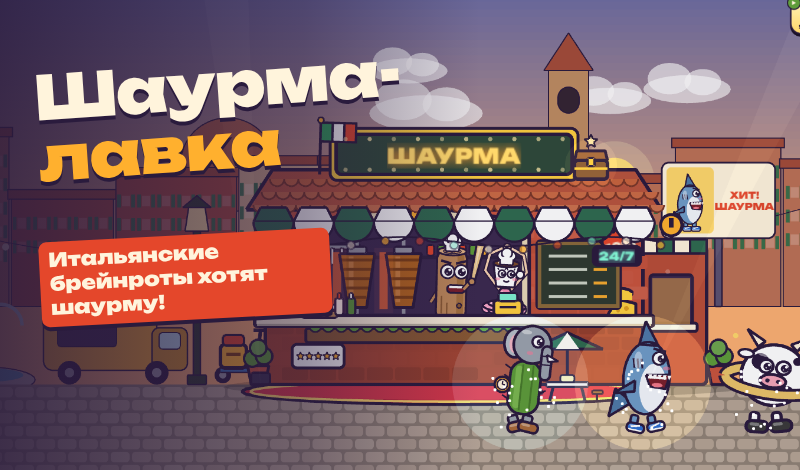
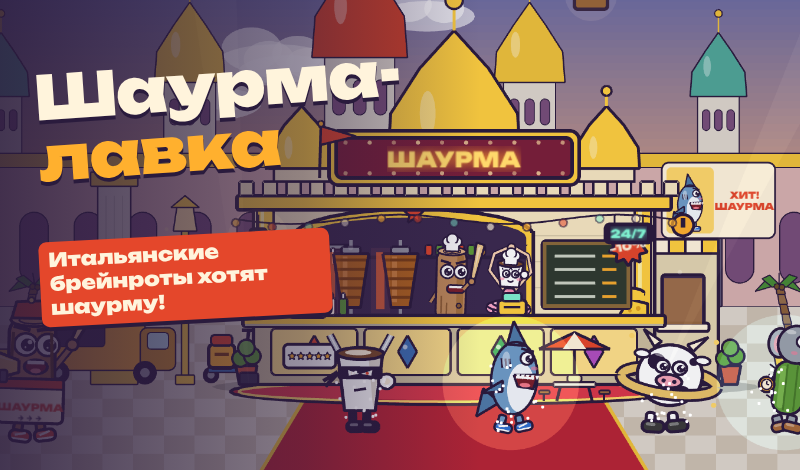
Docs and promo for the dumpster-to-palace story
Claude-Session: https://claude.ai/code/session_01Qaf8nFrGjceNFtBnCV7UjF

diff --git a/CLAUDE.md b/CLAUDE.md
@@ -11,7 +11,7 @@ Idle-кликер про ларёк с шаурмой. Браузерная иг
 ## Структура
 - `src/core/` — чистая логика игры. Без Phaser, без `window`, без `localStorage`. Покрыто тестами в `economy.test.ts`.
   - `economy.ts` — `GameState`, тап, покупка, тик, офлайн-доход, переезд, буст, миграция старых сохранений (`normalize`).
-  - `upgrades.ts` — таблица из 18 улучшений (тап, помощники, множители). `locations.ts` — 5 локаций с порогами и множителями.
+  - `upgrades.ts` — таблица из 18 улучшений (тап, помощники, множители). `locations.ts` — 7 точек сюжета «из коробки у помойки во дворец шаурмы» с порогами и множителями.
   - `achievements.ts` — 15 достижений, каждое навсегда даёт +3 % к доходу.
   - `pets.ts` — брейнроты-питомцы из ящиков: редкости, шансы, мутации, бонус к доходу (`petMult`), открытие ящика (`openBox`).
   - `daily.ts` — подарок дня на 7 дней. `quests.ts` — три задания с наградами.
@@ -22,11 +22,11 @@ Idle-кликер про ларёк с шаурмой. Браузерная иг
 - `src/scenes/` — только отрисовка и ввод, всё из фигур с тёмной обводкой.
   - `draw.ts` — палитра и `Pen` (заливка + обводка одной командой).
   - `brainrots.ts` — рисунки 13 брейнротов, ноги отдельными кусками для ходьбы.
-  - `backdrops.ts` — фоны 5 локаций (метро, пляж, джунгли, пустыня, площадь) и то, что ездит или летает по фону.
+  - `backdrops.ts` — фоны 7 локаций (помойка, метро, пляж, джунгли, пустыня, площадь, дворец) и то, что ездит или летает по фону.
   - `stall.ts` — ларёк: свой стиль на каждой локации, каждое из 18 улучшений видно на точке и растёт со стадией.
-  - `StallScene.ts` — небо со сменой дня и ночи (сутки 8 минут), очередь брейнротов с репликами, Бомбардиро с мешком денег, переезд с затемнением, портреты для коллекции, танцующие питомцы перед ларьком, криты.
+  - `StallScene.ts` — небо со сменой дня и ночи (сутки 8 минут), очередь брейнротов с репликами, Бомбардиро с мешком денег, переезд с затемнением, портреты для коллекции, танцующие питомцы перед ларьком, криты, маскот-зазывала Тунг Тунг (подсказки через `setHints`), тап по всей улице.
 - `src/icons.ts` — значки улучшений и наград в виде маленьких SVG.
-- `src/ui.ts` — HTML-интерфейс поверх сцены: деньги и бафы, боковые кнопки, вкладки «Улучшения / Брейнроты / Задания / Переезд / Магазин», окна офлайн-дохода, подарка дня и открытия ящика. Разметка в `index.html`, стили в `src/style.css`.
+- `src/ui.ts` — HTML-интерфейс поверх сцены. Игра на весь экран, меню — выдвижная шторка (снизу на телефоне, справа на ПК), по умолчанию закрыта: деньги и бафы, боковые кнопки, вкладки «Улучшения / Брейнроты / Задания / Переезд / Магазин», окна офлайн-дохода, подарка дня и открытия ящика. Разметка в `index.html`, стили в `src/style.css`.
 - `src/game.ts` — контроллер: держит состояние, цикл 10 раз в секунду, сохранение каждые 10 с, события (час пик, Бомбардиро, достижения, знакомство с брейнротами), реклама, покупки, пауза.
 - `src/i18n.ts` — все тексты на русском и английском. Новые строки добавлять только сюда.
 - `src/audio.ts` — звуки и музыка (тарантелла по кругу), синтезированные через Web Audio, без файлов.

diff --git a/docs/yandex-publish.md b/docs/yandex-publish.md
@@ -33,10 +33,10 @@ npm run zip
 
 **Название:** Шаурма-лавка (англ. Shawarma Stand Idle).
 
-**Короткое описание:** Корми итальянских брейнротов шаурмой, открывай ящики и собери всех 13, от обычного Гусини до брейнрот-бога Бомбардиро. Тапай, лови криты и веди ларёк с метро до Италии.
+**Короткое описание:** Корми итальянских брейнротов шаурмой, открывай ящики и собери всех 13, от обычного Гусини до брейнрот-бога Бомбардиро. Начни с коробки у помойки и дорасти до Дворца шаурмы.
 
 **Описание:**
-> В очередь к твоему ларьку выстроились итальянские брейнроты: Тралалеро Тралала в кроссовках, Шимпанзини Бананини, Капучино Ассасино и ещё десяток знакомых лиц. Тапай по ларьку, чтобы их кормить, нанимай Тунг Тунг Сахура к грилю и Балерину Капучину на кассу. Каждое улучшение видно на точке: новые вертела, соусы, столики, неоновая вывеска, сундук с секретным рецептом. Переезжай с метро на пляж, в джунгли, в пустыню и на итальянскую площадь, открывай ящики с брейнротами шести редкостей (с золотыми и алмазными мутациями: они танцуют у ларька и навсегда умножают доход), забирай подарок каждый день, выполняй задания и лови Бомбардиро Крокодило: он сбрасывает мешок денег, устраивает лихорадку ×7 или бешеные тапы ×10.
+> В очередь к твоему ларьку выстроились итальянские брейнроты: Тралалеро Тралала в кроссовках, Шимпанзини Бананини, Капучино Ассасино и ещё десяток знакомых лиц. Тапай по ларьку, чтобы их кормить, нанимай Тунг Тунг Сахура к грилю и Балерину Капучину на кассу. Каждое улучшение видно на точке: новые вертела, соусы, столики, неоновая вывеска, сундук с секретным рецептом. Начни с картонной коробки у мусорных баков и переезжай к метро, на пляж, в джунгли, в пустыню, на итальянскую площадь и в золотой Дворец шаурмы, а Тунг Тунг с мегафоном будет зазывать гостей. Тапай где угодно на улице, открывай ящики с брейнротами шести редкостей (с золотыми и алмазными мутациями: они танцуют у ларька и навсегда умножают доход), забирай подарок каждый день, выполняй задания и лови Бомбардиро Крокодило: он сбрасывает мешок денег, устраивает лихорадку ×7 или бешеные тапы ×10.
 
 **Жанр:** казуальные / кликеры (idle). **Возраст:** 0+. **Языки:** русский, английский. **Устройства:** телефон, планшет, компьютер. **Ориентация:** любая.
 

diff --git a/docs/design.md b/docs/design.md
@@ -11,7 +11,7 @@
 ## Экраны
 1. **Ларёк** — сцена с ларьком, тап продаёт шаурму. Покупатели в очереди (кружки), анимация продажи.
 2. **Улучшения** — рецепт (доход за тап), помощники (доход в секунду), гриль (скорость), меню (новые позиции).
-3. **Переезд** — престиж: ларёк у метро → киоск на пляже → шаурмичная в джунглях → кафе-оазис в пустыне → траттория на площади. Каждый переезд даёт постоянный множитель и новых гостей-брейнротов.
+3. **Переезд** — престиж и сюжет «из грязи в князи»: коробка у помойки → ларёк у метро → киоск на пляже → шаурмичная в джунглях → кафе-оазис в пустыне → траттория на площади → Дворец шаурмы. Множители ×1, ×3, ×10, ×30, ×100, ×300, ×1000, новые гости-брейнроты на каждой точке.
 4. **Магазин** — отключение рекламы, «вечный ×2», пакеты денег.
 
 ## Версия 2.0 (идеи из успешных игр)
@@ -20,6 +20,12 @@
 - **Подарок дня** на 7 дней (деньги, ящики, на 7-й день золотой ящик) и **три задания** с наградами.
 - **Бомбардиро** даёт одно из трёх: мешок денег, лихорадку (доход ×7 на 30 с) или бешеные тапы (×10 на 15 с). **Крит**: 6 % тапов приносят ×10.
 - **Интерфейс-наклейки**: тёмно-сливовая панель, кремовые карточки с толстой обводкой, нижние вкладки с иконками и значками, боковые кнопки над улицей.
+
+## Версия 2.1: игра на первом плане
+- Улица на весь экран, меню прячется в шторку и открывается вкладкой. На ПК шторка справа, ларёк отъезжает влево.
+- Тапать можно в любом месте улицы, несколькими пальцами сразу.
+- Сюжет начинается с картонной коробки под синим тентом у мусорных баков и заканчивается золотым Дворцом шаурмы с куполами и красной дорожкой.
+- Маскот-зазывала Тунг Тунг с мегафоном и щитом «ШАУРМА» стоит на переднем плане, кричит фразы и подсказки (ящик готов, пора переезжать, подарок дня), подпрыгивает от тапа.
 
 ## Экономика
 - Цена улучшения растёт в 1,07–1,15 раза за уровень (сейчас 1,15 для рецепта, 1,12 для помощника).

diff --git a/docs/roadmap.md b/docs/roadmap.md
@@ -11,7 +11,7 @@
 
 ## Недели 3–5: экономика и переезд
 - [x] 15–20 улучшений, данные в одной таблице
-- [x] Переезд (престиж) и 5 локаций
+- [x] Переезд (престиж) и 7 локаций
 - [x] Красивые большие числа (1,2 тыс., 3,4 млн)
 - [x] Тесты баланса: время до первого переезда 10–20 минут
 
@@ -34,7 +34,7 @@
 - [x] 15 достижений с бонусом к доходу
 - [x] Интерфейс в стиле крафт-бумаги, свои шрифты
 - [x] Тема итальянских брейнротов: 13 персонажей, реплики, коллекция
-- [x] 5 разных локаций: метро, пляж, джунгли, пустыня, площадь
+- [x] 7 локаций по сюжету: помойка, метро, пляж, джунгли, пустыня, площадь, дворец
 - [x] Каждое из 18 улучшений видно на ларьке и растёт с уровнем, украшения за сумму уровней
 - [x] Покупка ×1/×10/Макс, музыка-тарантелла, карточка переезда, Бомбардиро с мешком денег
 
@@ -43,5 +43,6 @@
 ## Идеи на потом
 - Обмен лишних брейнротов на ящики покрупнее
 - Таблица лидеров Яндекса
-- Новые локации после площади и новые брейнроты
+- [x] Версия 2.1: игра на весь экран, меню в шторке, тап по всей улице, сюжет из коробки во дворец, маскот-зазывала
+- Новые брейнроты
 - Версия для VK Games
